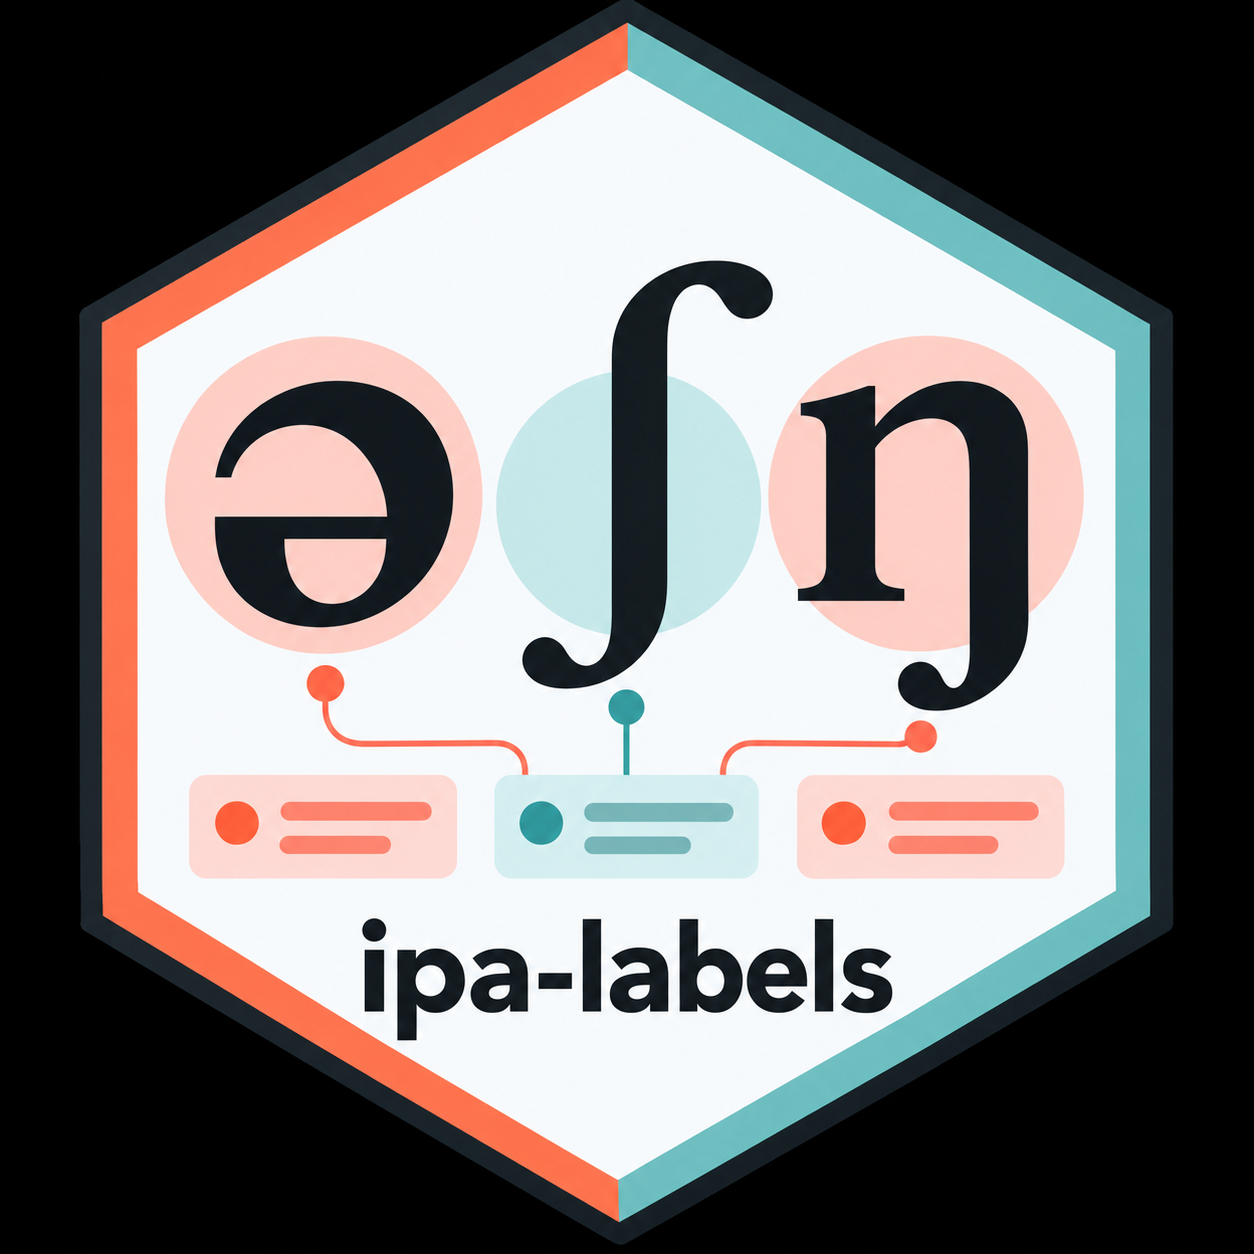
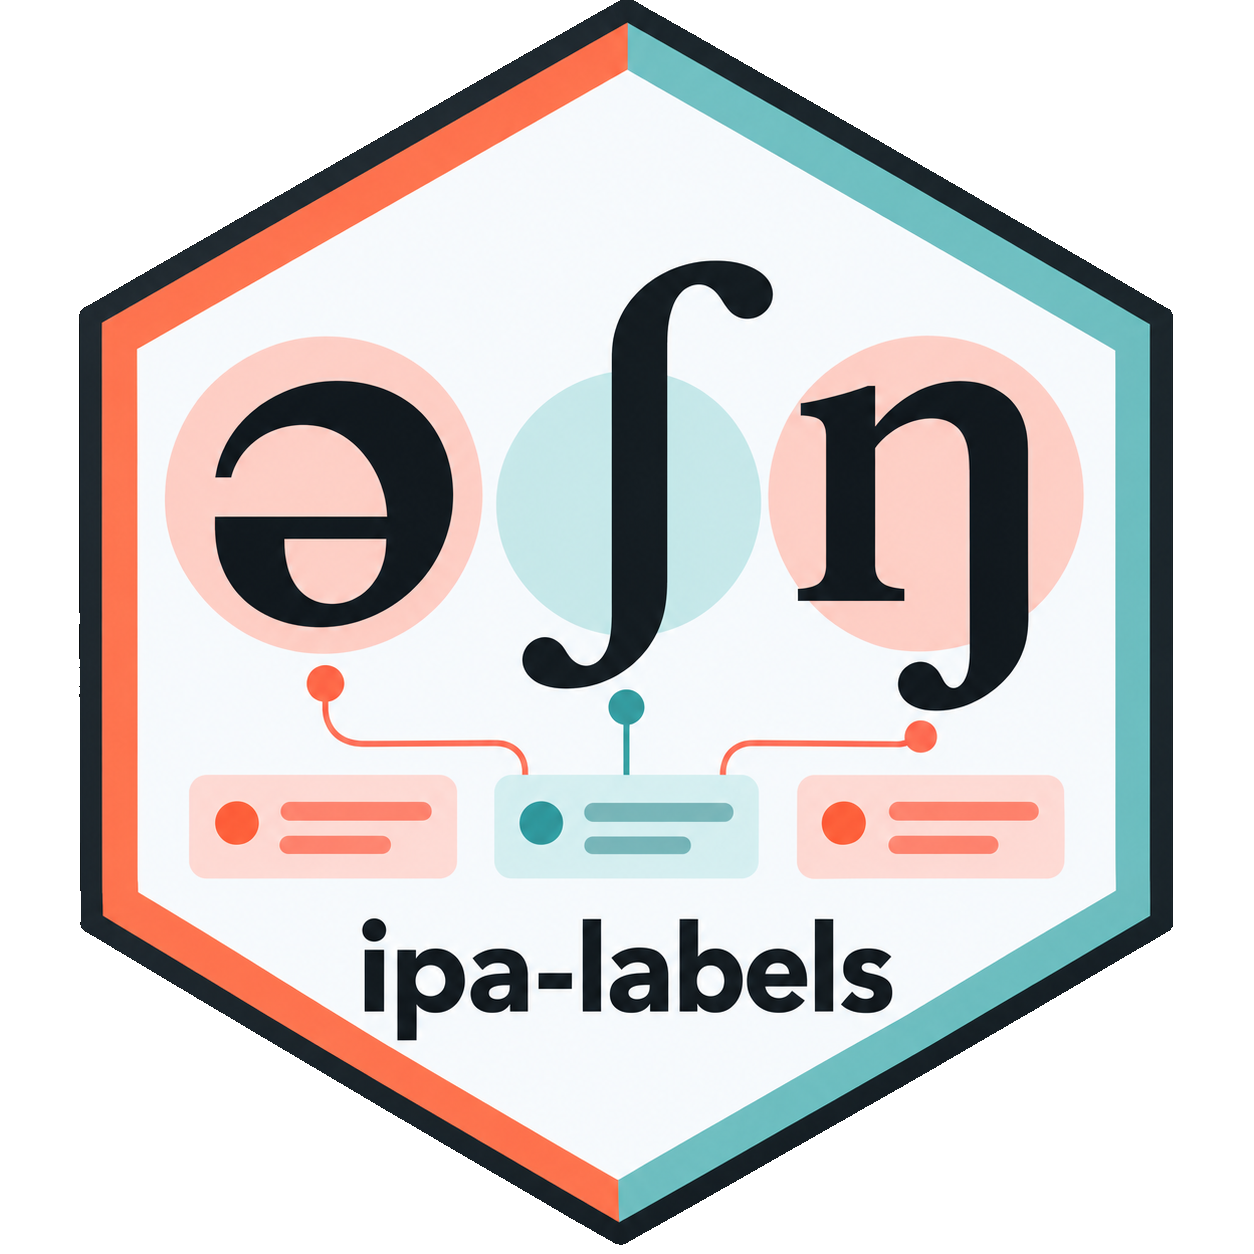
Expand feature and inventory documentation

diff --git a/docs/python/index.html b/docs/python/index.html
@@ -4,8 +4,7 @@
 <p class="lead">A gentle, example-led introduction for researchers who are comfortable with Python basics but are new to this package.</p><h1>Python manual</h1>
 <div class="callout"><strong>Reading route:</strong> run the first example, learn the five groups, then choose either lookup, feature, or inventory work. You do not need to memorise the whole database.</div>
 <h2>Before the technical details</h2><p>Think of <code>ipa_labels</code> as a box of information cards. Each card describes one IPA symbol. The card for <code>p</code> tells you what kind of sound it is and gives you its different writing and coding systems.</p><p>The symbol is the thing you are looking up. A group is a section on its card. So <code>p.label.place</code> means: “on the card for <code>p</code>, open the label section and show me the place of articulation”.</p><p>You do not need to learn every field before starting. Ask one small question first, then explore the other sections of the same record.</p>
-<h2>1. Install and make a first query</h2><p>For a local checkout, install the package in editable mode:</p><pre><code>cd python_package
-py -3.12 -m pip install -e .</code></pre><p>Now ask for the record for <code>p</code>:</p><pre><code>import ipa_labels
+<h2>1. Install and make a first query</h2><p>Install the current version directly from GitHub:</p><pre><code>py -m pip install "git+https://github.com/congzhang365/IPA_labels.git#subdirectory=python_package"</code></pre><p>Now ask for the record for <code>p</code>:</p><pre><code>import ipa_labels
 
 p = ipa_labels.get("p")
 print(p.symbol.ipa)
@@ -57,13 +56,14 @@ print(consonant.label.manner)   # plosive</code></pre><p><code>closeness</code> 
 for match in matches:
     print(match)</code></pre><p>Use <code>fields="symbol"</code> when you want a simple list. Grouped criteria are also supported:</p><pre><code>ipa_labels.lookup(label={"place": "bilabial"}, fields="symbol")
 ipa_labels.lookup(code={"unicode": "U+0070"}, fields="symbol")</code></pre>
-<h2>6. PHOIBLE features</h2><p>Labels and features answer different questions. <code>p.label.place</code> is a readable IPA label; <code>p.features.labial</code> is a structured PHOIBLE feature value.</p><pre><code>p = ipa_labels.get("p")
+<h2>6. PHOIBLE features</h2><p>Labels and features answer different questions. <code>p.label.place</code> is a readable IPA label; <code>p.features.labial</code> is a structured PHOIBLE feature value. Use labels when you want a description for a person to read, and features when you want values to compare or analyse in code.</p><pre><code>p = ipa_labels.get("p")
 for name in ["consonantal", "sonorant", "continuant", "nasal", "labial"]:
     print(name, p.features[name])</code></pre><p>Feature values are normally <code>True</code>, <code>False</code>, or <code>None</code> when PHOIBLE does not provide a value.</p>
-<h2>7. Language inventories</h2><p>Inventories retain language, doculect, source, marginal status, and segment membership.</p><pre><code>english = ipa_labels.inventory(iso639_3="eng")
+<h2>7. Language inventories</h2><p>An inventory is a record of the sounds reported for a particular language or doculect. The function returns a list because one language can have several records from different sources. Each record retains its own language, doculect, ISO code, Glottocode, source, URL, inventory ID, and segment list.</p><pre><code>english = ipa_labels.inventory(iso639_3="eng")
 
 for inv in english:
-    print(inv["inventory_id"], inv["language"], inv["source"])
+    print(inv["inventory_id"], inv["language"], inv["doculect"])
+    print(inv["iso639_3"], inv["glottocode"], inv["source"])
     for segment in inv["segments"]:
         print(segment["symbol"], segment["marginal"])</code></pre><p>Other selectors are <code>language=</code>, <code>glottocode=</code>, and <code>inventory_id=</code>.</p>
 <h2>8. Keep the older API while you learn</h2><pre><code>ipa_labels.get("p", "place")

diff --git a/docs/r/index.html b/docs/r/index.html
@@ -4,10 +4,10 @@
 <p class="lead">A gentle, example-led introduction for researchers using RStudio or R scripts to work with IPA data.</p><h1>R manual</h1>
 <div class="callout"><strong>Reading route:</strong> copy the first example into RStudio, inspect the nested list with <code>str()</code>, then move on to searches and inventories.</div>
 <h2>Before the technical details</h2><p>Think of <code>ipa_labels</code> as a box of information cards. Each card describes one IPA symbol. The card for <code>p</code> tells you what kind of sound it is and gives you its different writing and coding systems.</p><p>The symbol is the thing you are looking up. A group is a section on its card. In R, <code>p$label$place</code> means: “on the card for <code>p</code>, open the label section and show me the place of articulation”.</p><p>You do not need to learn every field before starting. Ask one small question first, then explore the other sections of the same record.</p>
-<h2>1. Install and load</h2><pre><code>install.packages("jsonlite")
-remotes::install_local("r_package/ipa.labels")
+<h2>1. Install and load</h2><p>Install the current version directly from GitHub:</p><pre><code>if (!requireNamespace("remotes", quietly = TRUE)) install.packages("remotes")
+remotes::install_github("congzhang365/IPA_labels", subdir = "r_package/ipa.labels")
 
-library(ipa.labels)</code></pre><p>For a local checkout, replace the path with the full path to the R package directory.</p>
+library(ipa.labels)</code></pre>
 <h2>2. Make a first query</h2><pre><code>p <- ipaget("p")
 
 p$symbol$ipa
@@ -57,16 +57,18 @@ close_vowels <- ipalookup(
   criteria = list(type = "vowel", frontness = "front"),
   fields = "symbol"
 )</code></pre>
-<h2>7. PHOIBLE features</h2><pre><code>p <- ipaget("p")
+<h2>7. PHOIBLE features</h2><p>Labels and features answer different questions. <code>p$label$place</code> is the readable IPA description “bilabial”, while <code>p$features$labial</code> is a structured PHOIBLE value. Use labels for explanations and features for comparison or analysis.</p><pre><code>p <- ipaget("p")
 p$features$consonantal
 p$features$labial
 p$features$nasal
-p$features$spreadGlottis</code></pre><p>Feature values are usually <code>TRUE</code>, <code>FALSE</code>, or <code>NA</code>. Labels and PHOIBLE features are deliberately separate.</p>
-<h2>8. Language inventories</h2><pre><code>english <- ipainventory(iso639_3 = "eng")
+p$features$spreadGlottis
+names(p$features)</code></pre><p>Feature values are usually <code>TRUE</code>, <code>FALSE</code>, or <code>NA</code>. <code>NA</code> means PHOIBLE does not provide a value; it is not an inferred false value. Labels and PHOIBLE features are deliberately separate.</p>
+<h2>8. Language inventories</h2><p>An inventory is a sound-system record for a language or doculect. The function returns a list because a language can have several records from different sources. Each record keeps its own inventory ID, language, doculect, ISO code, Glottocode, source, URL, and segment list.</p><pre><code>english <- ipainventory(iso639_3 = "eng")
 
 for (inv in english) {
   print(inv$inventory_id)
   print(inv$language)
+  print(inv$doculect)
   print(inv$source)
   print(length(inv$segments))
 }</code></pre><p>Use <code>language</code>, <code>glottocode</code>, or <code>inventory_id</code> when you need a narrower result.</p>

diff --git a/docs/assets/style.css b/docs/assets/style.css
@@ -1,10 +1,16 @@
-:root { --ink:#172033; --muted:#5c687a; --paper:#fbfaf7; --panel:#ffffff; --accent:#d98b18; --line:#e4e0d7; --code:#f1f3f5; }
+:root { --ink:#172033; --muted:#5c687a; --paper:#ffffff; --panel:#ffffff; --accent:#d98b18; --line:#e4e0d7; --code:#f1f3f5; }
 * { box-sizing:border-box; }
 body { margin:0; color:var(--ink); background:var(--paper); font:16px/1.65 system-ui,-apple-system,Segoe UI,sans-serif; }
 a { color:#8a5600; }
 .wrap { max-width:1060px; margin:auto; padding:0 24px; }
 header { padding:34px 0 22px; border-bottom:1px solid var(--line); }
-header img { width:min(520px,100%); height:auto; }
+header img {
+  width:auto;
+  max-width:260px;
+  max-height:180px;
+  height:auto;
+  object-fit:contain;
+}
 nav { margin-top:22px; display:flex; flex-wrap:wrap; gap:10px; }
 nav a,.button { padding:8px 14px; border:1px solid var(--line); border-radius:999px; text-decoration:none; background:var(--panel); }
 main { padding:42px 0 72px; }

diff --git a/r_package/ipa.labels/README.md b/r_package/ipa.labels/README.md
@@ -9,19 +9,16 @@ PHOIBLE features and inventories.
 
 ## Installation
 
-You can install `ipa.labels` locally using the `devtools` package. Open R and run:
+Install directly from GitHub:
 
 ```R
-# Install devtools if not already installed
-if (!requireNamespace("devtools", quietly = TRUE)) install.packages("devtools")
-
-# Install ipa.labels from the local folder
-devtools::install("c:/Users/Cong/OneDrive - Newcastle University/Documents/Website/IPA/r_package/ipa.labels")
+if (!requireNamespace("remotes", quietly = TRUE)) install.packages("remotes")
+remotes::install_github("congzhang365/IPA_labels", subdir = "r_package/ipa.labels")
 ```
 
 ## Features
 
-- **Compressed Database Loading**: Reads the generated UTF-8 compressed JSON database. The repository-level `ipa_symbols.csv` remains the editable source of truth.
+- **Compressed Database Loading**: Reads the generated UTF-8 compressed JSON database shipped with the package.
 - **Structured Searches (`ipalookup`)**: Find symbols by specifying values for columns like `voicing`, `place`, `manner`, `type`, `height`, `roundedness`, etc.
 - **Free-Text Search (`ipaquery`)**: Search for multiple terms case-insensitively across all columns (e.g., searching `'voiced bilabial'` will find matching phonemes).
 - **Flexible Field Selection**: Choose to return complete records as a data frame, a single column as a flat vector, or a subset of columns.
@@ -116,6 +113,56 @@ p$description$unicode_name
 
 english <- ipainventory(iso639_3 = "eng")
 ```
+
+### PHOIBLE features
+
+The `features` group contains structured segment features from the bundled
+PHOIBLE 2.0.1 snapshot. It is intentionally separate from the readable IPA
+`label` group. For example, `p$label$place` is the human-readable label
+“bilabial”, whereas `p$features$labial` is the PHOIBLE feature value `TRUE`.
+
+```R
+p <- ipaget("p")
+
+p$features$consonantal
+p$features$labial
+p$features$nasal
+p$features$spreadGlottis
+
+# Inspect every feature supplied for this symbol
+names(p$features)
+unclass(p$features)
+```
+
+Feature values are normally `TRUE`, `FALSE`, or `NA`. `NA` means that the
+bundled PHOIBLE snapshot does not provide a value; it does not mean that the
+feature has been inferred to be false. Use `label` for readable phonetic
+descriptions and `features` for structured analysis.
+
+### PHOIBLE language inventories
+
+`ipainventory()` returns a list. A language can have several PHOIBLE records,
+for example because different doculects or sources were used. Each record
+keeps its own inventory ID, language, doculect, ISO code, Glottocode, source,
+URL, and segment list.
+
+```R
+english <- ipainventory(iso639_3 = "eng")
+
+for (inv in english) {
+  cat(inv$inventory_id, inv$language, inv$doculect, "\n")
+  cat("Source:", inv$source, "\n")
+  cat("Number of segments:", length(inv$segments), "\n")
+
+  first_segment <- inv$segments[[1]]
+  print(first_segment$symbol)
+  print(first_segment$marginal)
+}
+```
+
+Use `language`, `iso639_3`, `glottocode`, or `inventory_id` to narrow the
+results. Because the function can return zero, one, or many records, do not
+assume that the first result is the only inventory for a language.
 
 ## Reference-resource checks
 

diff --git a/python_package/TUTORIAL.md b/python_package/TUTORIAL.md
@@ -41,9 +41,10 @@ symbol, ask one question, and then explore the other sections of its card.
 
 ## Install and import
 
+For the current GitHub version, run:
+
 ```powershell
-cd python_package
-py -3.12 -m pip install -e .
+py -m pip install "git+https://github.com/congzhang365/IPA_labels.git#subdirectory=python_package"
 ```
 
 ```python
@@ -120,19 +121,33 @@ string; the structured API converts that to `None`.
 ## PHOIBLE features and inventories
 
 PHOIBLE features are separate from the package's readable IPA labels. They are
-structured phonological feature values, for example:
+structured phonological feature values intended for comparison and analysis.
+For example, `p.label.place` is the readable IPA description `bilabial`, while
+`p.features.labial` is a PHOIBLE feature value. They answer related but
+different questions:
 
 ```python
 p = ipa_labels.get("p")
-print(p.features["continuant"])
-print(p.features["spreadGlottis"])
+print(p.label.place)                 # bilabial
+print(p.features["consonantal"])    # True
+print(p.features["labial"])         # True
+print(p.features["continuant"])     # False
+print(p.features["spreadGlottis"])  # usually False or None, depending on symbol
+print(p.features.default)            # all supplied PHOIBLE fields
 ```
 
 The bundled PHOIBLE snapshot is version 2.0.1. Its feature values are converted
-to Python booleans (`True`/`False`) and missing values to `None`.
+to Python booleans (`True`/`False`) and missing values to `None`. `None` means
+that PHOIBLE does not provide a value; the package does not guess one. Feature
+names include articulatory and laryngeal properties such as `consonantal`,
+`sonorant`, `continuant`, `nasal`, `labial`, `coronal`, `dorsal`, `high`,
+`low`, `front`, `back`, `spreadGlottis`, and `constrictedGlottis`. The exact
+fields available can vary by record, so `p.features.default` is the safest way
+to inspect the complete mapping.
 
-Inventories retain language, doculect, source, marginal status, and segment
-membership. Inventories are not merged merely because they share a language:
+Inventories retain language, doculect, ISO 639-3 code, Glottocode, source, URL,
+marginal status, and segment membership. Inventories are not merged merely
+because they share a language:
 
 ```python
 english = ipa_labels.inventory(language="English")
@@ -140,10 +155,17 @@ english_iso = ipa_labels.inventory(iso639_3="eng")
 one_inventory = ipa_labels.inventory(inventory_id=123)
 
 for inv in english:
-    print(inv["inventory_id"], inv["language"], len(inv["segments"]))
+    print(inv["inventory_id"], inv["language"], inv["doculect"])
+    print(inv["iso639_3"], inv["glottocode"], inv["source"])
+    print("segments:", len(inv["segments"]))
     for segment in inv["segments"]:
         print(segment["symbol"], segment["marginal"])
 ```
+
+There may be no matching inventory, one matching inventory, or several
+matching inventories. Always loop over the returned list when you want to see
+all results. A segment record can also include a parameter ID, allophone
+information, and its own source.
 
 ## Updating data
 

diff --git a/python_package/README.md b/python_package/README.md
@@ -11,17 +11,17 @@ The package is released under the [MIT License](LICENSE).
 
 ## Installation
 
-To install the package in editable mode locally, navigate to the `python_package` folder and run:
+Install directly from GitHub:
 
-```bash
-pip install -e .
+```powershell
+py -m pip install "git+https://github.com/congzhang365/IPA_labels.git#subdirectory=python_package"
 ```
 
 The installed package exposes its release version as `ipa_labels.__version__`.
 
 ## Features
 
-- **Compressed Database Loading**: Reads the generated UTF-8 compressed JSON database. The repository-level `ipa_symbols.csv` remains the editable source of truth.
+- **Compressed Database Loading**: Reads the generated UTF-8 compressed JSON database shipped with the package.
 - **Structured Searches (`lookup`)**: Find symbols by specifying values for columns like `voicing`, `place`, `manner`, `type`, `height`, `roundedness`, etc.
 - **Free-Text Search (`query`)**: Search for multiple terms case-insensitively across all columns (e.g., searching `'voiced bilabial'` will find matching phonemes).
 - **Flexible Field Selection**: Choose to return complete records, a single column as a list of values, or a subset of columns.
@@ -58,6 +58,53 @@ p.description.unicode_name
 The five groups are `symbol`, `code`, `label`, `features`, and `description`.
 See [TUTORIAL.md](TUTORIAL.md) for defaults, aliases, missing values, multiple
 results, and PHOIBLE inventory examples.
+
+### PHOIBLE features
+
+The `features` group contains structured segment features from the bundled
+PHOIBLE 2.0.1 snapshot. These are different from the readable IPA labels:
+`p.label.place` says that `p` is **bilabial**, while
+`p.features.labial` gives the PHOIBLE feature value `True`. Feature values are
+usually `True` or `False`; `None` means that the snapshot has no value for that
+feature.
+
+```python
+p = ipa_labels.get("p")
+
+p.features.consonantal
+p.features.labial
+p.features.nasal
+p.features["spreadGlottis"]
+
+# See every feature supplied for this symbol
+print(p.features.default)
+```
+
+Use `label` when you want a human-readable phonetic description, and
+`features` when you want a machine-readable feature bundle for comparison or
+analysis. The package does not invent feature values when PHOIBLE is missing
+one.
+
+### PHOIBLE language inventories
+
+`inventory()` returns a list because a language may have several inventories or
+doculect records. Each result keeps its own language, doculect, source, URL,
+inventory ID, and list of segments; records are not silently merged.
+
+```python
+english = ipa_labels.inventory(iso639_3="eng")
+
+for inv in english:
+    print(inv["inventory_id"], inv["language"], inv["doculect"])
+    print(inv["source"])
+    for segment in inv["segments"]:
+        print(segment["symbol"], segment["marginal"])
+```
+
+You can select records with `language=`, `iso639_3=`, `glottocode=`, or
+`inventory_id=`. A query can return zero, one, or many inventories, so inspect
+the list rather than assuming that the first result represents the whole
+language.
 
 ### 1. Free-Text Queries (`query`)
 
